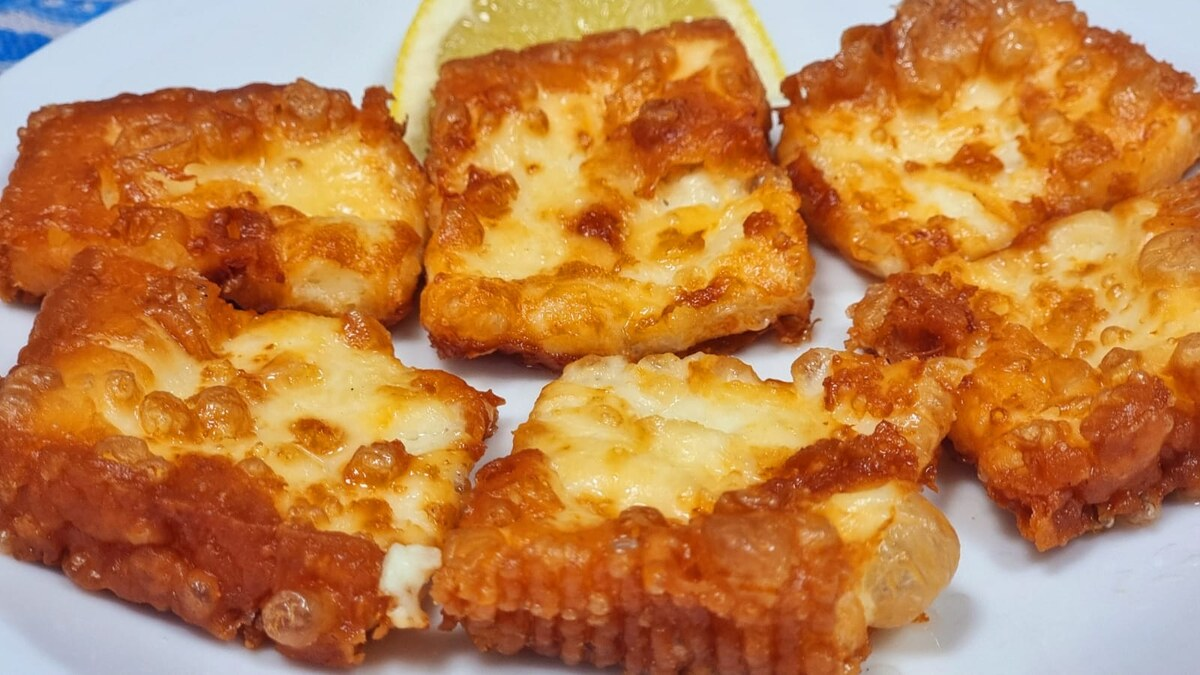
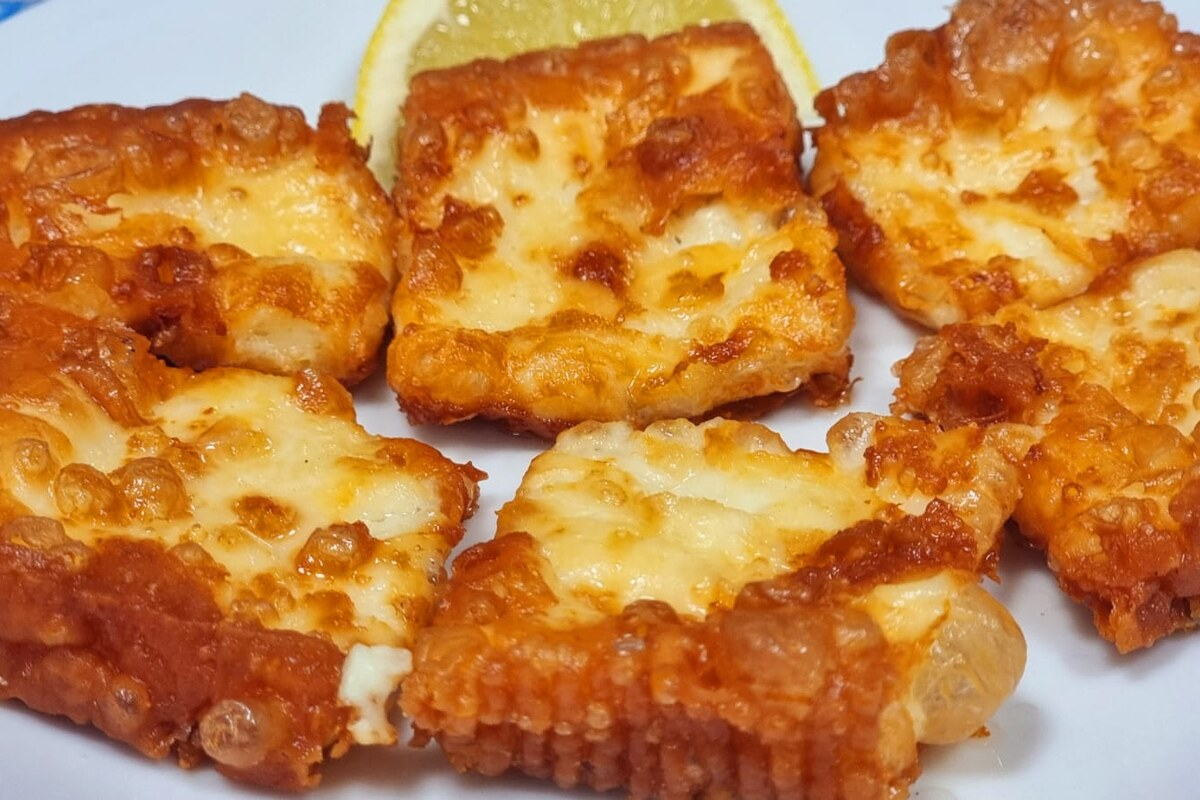
fix(menu): publish six centered ARGO photos

diff --git a/index.html b/index.html
@@ -9,7 +9,7 @@
 <link rel="preconnect" href="https://fonts.googleapis.com">
 <link href="https://fonts.googleapis.com/css2?family=Bebas+Neue&family=Inter:wght@400;500;600;700;800&display=swap" rel="stylesheet">
 <style>
-:root{--n:#0D3B66;--b:#1D70FF;--s:#D9C7A3;--d:#0c0f13;--c:#151b22;--m:#98a6b5}*{box-sizing:border-box}html{scroll-behavior:smooth}body{margin:0;background:var(--d);color:#fff;font-family:Inter,Arial,sans-serif}a{text-decoration:none;color:inherit}.top{background:var(--b);padding:9px 14px;text-align:center;font-size:12px;font-weight:800}.nav{position:sticky;top:0;z-index:40;background:#081d33f5;border-bottom:1px solid #ffffff12}.navin{max-width:1180px;height:66px;margin:auto;padding:0 18px;display:flex;align-items:center;justify-content:space-between}.logo{font-family:'Bebas Neue';font-size:29px;letter-spacing:2px}.logo span{color:var(--s)}.links{display:flex;gap:7px;align-items:center}.links a{font-size:13px;font-weight:800;padding:9px 11px;border-radius:9px}.links .cta{background:var(--s);color:var(--n)}.hero{min-height:68vh;position:relative;display:flex;align-items:center;overflow:hidden}.hero:before{content:'';position:absolute;inset:0;background:url('assets/images/argo-food-gallery.jpg') center/cover no-repeat}.hero:after{content:'';position:absolute;inset:0;background:linear-gradient(110deg,#081d33f2,#08121cb8,#0007)}.heroin{position:relative;z-index:1;max-width:1180px;width:100%;margin:auto;padding:82px 20px}.eyebrow{display:inline-block;border:1px solid #d9c7a355;background:#d9c7a31c;color:var(--s);border-radius:99px;padding:7px 14px;font-size:11px;font-weight:900;letter-spacing:1.5px}.hero h1,.title{font-family:'Bebas Neue';letter-spacing:1px;line-height:.9}.hero h1{font-size:clamp(60px,10vw,116px);margin:21px 0 16px}.hero h1 span,.title span{color:var(--s)}.hero p{font-size:17px;line-height:1.65;max-width:650px;color:#d5e0ea}.btns{display:flex;gap:10px;flex-wrap:wrap;margin-top:26px}.btn{display:inline-flex;justify-content:center;align-items:center;border-radius:10px;padding:14px 18px;font-weight:900}.gold{background:var(--s);color:var(--n)}.ghost{background:#ffffff13;border:1px solid #ffffff35}.status{background:#102943;text-align:center;padding:12px 16px;color:#d7e2ed;font-size:13px}.wrap{max-width:1180px;margin:auto;padding:72px 18px}.tag{font-size:11px;font-weight:900;letter-spacing:2px;text-transform:uppercase;color:var(--b)}.title{font-size:clamp(46px,7vw,78px);margin:11px 0 17px}.sub{color:var(--m);max-width:680px;line-height:1.7}.promo{margin-top:26px;background:linear-gradient(135deg,#173b60,#0d3b66);border:1px solid #d9c7a345;border-radius:17px;padding:21px;display:grid;grid-template-columns:1fr auto;gap:16px;align-items:center}.promo strong{font-size:23px}.promo strong b{color:var(--s)}.pm{color:#c4d0db;font-size:13px;margin-top:7px}.code{background:#fff;color:var(--n);padding:12px 17px;border-radius:10px;font-weight:900;letter-spacing:1px}.week{display:grid;grid-template-columns:repeat(7,1fr);gap:8px;margin-top:13px}.day{background:#121b25;border:1px solid #ffffff10;border-radius:11px;padding:10px;min-height:82px}.day.today{border-color:var(--s)}.day.off{opacity:.45}.dn{font-size:10px;font-weight:900;color:#93a4b5}.do{font-size:12px;font-weight:800;margin-top:7px;line-height:1.35}.choice{background:var(--n)}.grid3{display:grid;grid-template-columns:repeat(3,1fr);gap:15px;margin-top:31px}.choiceCard{background:#ffffff0d;border:1px solid #ffffff17;border-radius:17px;padding:25px}.choiceCard.pickup{background:#d9c7a312;border-color:#d9c7a35c}.choiceCard .icon{font-size:42px}.badge{display:inline-block;margin:12px 0 3px;background:#ffffff12;color:var(--s);font-size:10px;font-weight:900;border-radius:99px;padding:5px 8px}.choiceCard h3{font-family:'Bebas Neue';font-size:31px;margin:10px 0 6px}.choiceCard p{color:#b8c5d1;font-size:14px;line-height:1.6;min-height:68px}.choiceBtn{display:block;text-align:center;background:#fff;color:var(--n);padding:13px;border-radius:10px;font-weight:900;margin-top:16px}.pickup .choiceBtn{background:var(--s)}.photos{display:grid;grid-template-columns:1.35fr 1fr;gap:14px;margin-top:28px}.ph{height:340px;background-position:center;background-size:cover;border-radius:17px;position:relative;overflow:hidden}.ph:after{content:'';position:absolute;inset:0;background:linear-gradient(to top,#0009,transparent 60%)}.ph span{position:absolute;z-index:2;bottom:17px;left:17px;font-family:'Bebas Neue';font-size:28px}.filters{display:flex;gap:8px;overflow:auto;padding:5px 0 18px}.chip{white-space:nowrap;border:1px solid #ffffff1f;background:transparent;color:#b9c6d3;border-radius:99px;padding:8px 12px;font-weight:800;cursor:pointer}.chip.on{background:var(--s);color:var(--n);border-color:var(--s)}.menu{display:grid;grid-template-columns:repeat(auto-fill,minmax(235px,1fr));gap:13px}.item{background:var(--c);border:1px solid #ffffff10;border-radius:14px;overflow:hidden;display:flex;flex-direction:column}.pic{height:165px;position:relative;overflow:hidden;background:linear-gradient(135deg,#14283b,#111820)}.pic img{display:none!important}.pic .fallback{display:grid!important}.fallback{position:absolute;inset:0;display:grid;place-items:center;font-size:43px}.ib{padding:14px;display:flex;flex-direction:column;flex:1}.ib h3{margin:0 0 7px;font-size:15px}.ib p{margin:0;color:#8797a7;font-size:12px;line-height:1.5;min-height:38px}.if{display:flex;justify-content:space-between;align-items:center;gap:8px;margin-top:auto;padding-top:14px}.price{font-family:'Bebas Neue';font-size:24px;color:var(--s)}.mini{border:1px solid #1d70ff55;background:#1d70ff1d;color:#63a7ff;border-radius:8px;padding:8px 9px;font-size:10px;font-weight:900;cursor:pointer}.info{display:grid;grid-template-columns:repeat(3,1fr);gap:13px}.ic{background:#141a21;border:1px solid #ffffff10;border-radius:14px;padding:20px}.ic h3{color:var(--s);margin-top:0}footer{background:#090b0e;border-top:1px solid #ffffff10;padding:32px 18px}.foot{max-width:1180px;margin:auto;display:flex;justify-content:space-between;gap:15px;flex-wrap:wrap;color:#8493a2;font-size:12px}@media(max-width:800px){.links a:not(.cta){display:none}.grid3,.info{grid-template-columns:1fr}.promo{grid-template-columns:1fr}.week{grid-template-columns:repeat(2,1fr)}.photos{grid-template-columns:1fr}.ph{height:270px}.choiceCard p{min-height:0}}@media(max-width:520px){.menu{grid-template-columns:1fr}.pic{height:220px}.hero h1{font-size:64px}.hero p{font-size:15px}.wrap{padding:56px 15px}}
+:root{--n:#0D3B66;--b:#1D70FF;--s:#D9C7A3;--d:#0c0f13;--c:#151b22;--m:#98a6b5}*{box-sizing:border-box}html{scroll-behavior:smooth}body{margin:0;background:var(--d);color:#fff;font-family:Inter,Arial,sans-serif}a{text-decoration:none;color:inherit}.top{background:var(--b);padding:9px 14px;text-align:center;font-size:12px;font-weight:800}.nav{position:sticky;top:0;z-index:40;background:#081d33f5;border-bottom:1px solid #ffffff12}.navin{max-width:1180px;height:66px;margin:auto;padding:0 18px;display:flex;align-items:center;justify-content:space-between}.logo{font-family:'Bebas Neue';font-size:29px;letter-spacing:2px}.logo span{color:var(--s)}.links{display:flex;gap:7px;align-items:center}.links a{font-size:13px;font-weight:800;padding:9px 11px;border-radius:9px}.links .cta{background:var(--s);color:var(--n)}.hero{min-height:68vh;position:relative;display:flex;align-items:center;overflow:hidden}.hero:before{content:'';position:absolute;inset:0;background:url('assets/images/argo-food-gallery.jpg') center/cover no-repeat}.hero:after{content:'';position:absolute;inset:0;background:linear-gradient(110deg,#081d33f2,#08121cb8,#0007)}.heroin{position:relative;z-index:1;max-width:1180px;width:100%;margin:auto;padding:82px 20px}.eyebrow{display:inline-block;border:1px solid #d9c7a355;background:#d9c7a31c;color:var(--s);border-radius:99px;padding:7px 14px;font-size:11px;font-weight:900;letter-spacing:1.5px}.hero h1,.title{font-family:'Bebas Neue';letter-spacing:1px;line-height:.9}.hero h1{font-size:clamp(60px,10vw,116px);margin:21px 0 16px}.hero h1 span,.title span{color:var(--s)}.hero p{font-size:17px;line-height:1.65;max-width:650px;color:#d5e0ea}.btns{display:flex;gap:10px;flex-wrap:wrap;margin-top:26px}.btn{display:inline-flex;justify-content:center;align-items:center;border-radius:10px;padding:14px 18px;font-weight:900}.gold{background:var(--s);color:var(--n)}.ghost{background:#ffffff13;border:1px solid #ffffff35}.status{background:#102943;text-align:center;padding:12px 16px;color:#d7e2ed;font-size:13px}.wrap{max-width:1180px;margin:auto;padding:72px 18px}.tag{font-size:11px;font-weight:900;letter-spacing:2px;text-transform:uppercase;color:var(--b)}.title{font-size:clamp(46px,7vw,78px);margin:11px 0 17px}.sub{color:var(--m);max-width:680px;line-height:1.7}.promo{margin-top:26px;background:linear-gradient(135deg,#173b60,#0d3b66);border:1px solid #d9c7a345;border-radius:17px;padding:21px;display:grid;grid-template-columns:1fr auto;gap:16px;align-items:center}.promo strong{font-size:23px}.promo strong b{color:var(--s)}.pm{color:#c4d0db;font-size:13px;margin-top:7px}.code{background:#fff;color:var(--n);padding:12px 17px;border-radius:10px;font-weight:900;letter-spacing:1px}.week{display:grid;grid-template-columns:repeat(7,1fr);gap:8px;margin-top:13px}.day{background:#121b25;border:1px solid #ffffff10;border-radius:11px;padding:10px;min-height:82px}.day.today{border-color:var(--s)}.day.off{opacity:.45}.dn{font-size:10px;font-weight:900;color:#93a4b5}.do{font-size:12px;font-weight:800;margin-top:7px;line-height:1.35}.choice{background:var(--n)}.grid3{display:grid;grid-template-columns:repeat(3,1fr);gap:15px;margin-top:31px}.choiceCard{background:#ffffff0d;border:1px solid #ffffff17;border-radius:17px;padding:25px}.choiceCard.pickup{background:#d9c7a312;border-color:#d9c7a35c}.choiceCard .icon{font-size:42px}.badge{display:inline-block;margin:12px 0 3px;background:#ffffff12;color:var(--s);font-size:10px;font-weight:900;border-radius:99px;padding:5px 8px}.choiceCard h3{font-family:'Bebas Neue';font-size:31px;margin:10px 0 6px}.choiceCard p{color:#b8c5d1;font-size:14px;line-height:1.6;min-height:68px}.choiceBtn{display:block;text-align:center;background:#fff;color:var(--n);padding:13px;border-radius:10px;font-weight:900;margin-top:16px}.pickup .choiceBtn{background:var(--s)}.photos{display:grid;grid-template-columns:1.35fr 1fr;gap:14px;margin-top:28px}.ph{height:340px;background-position:center;background-size:cover;border-radius:17px;position:relative;overflow:hidden}.ph:after{content:'';position:absolute;inset:0;background:linear-gradient(to top,#0009,transparent 60%)}.ph span{position:absolute;z-index:2;bottom:17px;left:17px;font-family:'Bebas Neue';font-size:28px}.filters{display:flex;gap:8px;overflow:auto;padding:5px 0 18px}.chip{white-space:nowrap;border:1px solid #ffffff1f;background:transparent;color:#b9c6d3;border-radius:99px;padding:8px 12px;font-weight:800;cursor:pointer}.chip.on{background:var(--s);color:var(--n);border-color:var(--s)}.menu{display:grid;grid-template-columns:repeat(auto-fill,minmax(235px,1fr));gap:13px}.item{background:var(--c);border:1px solid #ffffff10;border-radius:14px;overflow:hidden;display:flex;flex-direction:column}.pic{aspect-ratio:3/2;position:relative;overflow:hidden;background:linear-gradient(135deg,#14283b,#111820)}.pic img{width:100%;height:100%;display:block;object-fit:cover;object-position:center}.pic .fallback{display:grid}.fallback{position:absolute;inset:0;display:grid;place-items:center;font-size:43px}.ib{padding:14px;display:flex;flex-direction:column;flex:1}.ib h3{margin:0 0 7px;font-size:15px}.ib p{margin:0;color:#8797a7;font-size:12px;line-height:1.5;min-height:38px}.if{display:flex;justify-content:space-between;align-items:center;gap:8px;margin-top:auto;padding-top:14px}.price{font-family:'Bebas Neue';font-size:24px;color:var(--s)}.mini{border:1px solid #1d70ff55;background:#1d70ff1d;color:#63a7ff;border-radius:8px;padding:8px 9px;font-size:10px;font-weight:900;cursor:pointer}.info{display:grid;grid-template-columns:repeat(3,1fr);gap:13px}.ic{background:#141a21;border:1px solid #ffffff10;border-radius:14px;padding:20px}.ic h3{color:var(--s);margin-top:0}footer{background:#090b0e;border-top:1px solid #ffffff10;padding:32px 18px}.foot{max-width:1180px;margin:auto;display:flex;justify-content:space-between;gap:15px;flex-wrap:wrap;color:#8493a2;font-size:12px}@media(max-width:800px){.links a:not(.cta){display:none}.grid3,.info{grid-template-columns:1fr}.promo{grid-template-columns:1fr}.week{grid-template-columns:repeat(2,1fr)}.photos{grid-template-columns:1fr}.ph{height:270px}.choiceCard p{min-height:0}}@media(max-width:520px){.menu{grid-template-columns:1fr}.hero h1{font-size:64px}.hero p{font-size:15px}.wrap{padding:56px 15px}}
 </style>
 </head>
 <body>

diff --git a/ordina/index.html b/ordina/index.html
@@ -7,7 +7,7 @@
 <meta name="theme-color" content="#0D3B66">
 <link rel="preconnect" href="https://zibubwrntdmdxyimqddo.supabase.co" crossorigin>
 <style>
-*{box-sizing:border-box}body{margin:0;font-family:Arial,sans-serif;background:#0b1724;color:#fff}.wrap{max-width:900px;margin:auto;padding:18px}.top{display:flex;justify-content:space-between;align-items:center}.logo{font-size:28px;font-weight:900}.logo b{color:#d9c7a3}.back{color:#d9c7a3;text-decoration:none}.hero{padding:30px 0 18px}h1{font-size:42px;margin:0 0 8px}.muted{color:#aab5c2}.pickup{background:#15324a;border:1px solid #34516b;border-radius:12px;padding:12px 14px;margin-top:14px;color:#dbeafe}.dailyPromo{display:none;margin:14px 0 18px;background:linear-gradient(135deg,#7c4a00,#b46b00);border:1px solid #eab968;border-radius:14px;padding:15px 16px;box-shadow:0 8px 24px #0004}.dailyPromo.on{display:block}.dailyPromo .tag{font-size:10px;font-weight:900;letter-spacing:1.2px;color:#ffe8b5}.dailyPromo .main{font-size:19px;font-weight:900;margin-top:5px}.dailyPromo .meta{font-size:12px;color:#fff0cc;margin-top:5px;line-height:1.45}.promoUse{margin-top:10px;display:flex;gap:8px;align-items:center;flex-wrap:wrap}.promoUse code{background:#fff;color:#603800;padding:7px 10px;border-radius:8px;font-weight:900;font-size:14px}.promoUse button{border:0;border-radius:8px;background:#0d3b66;color:#fff;font-weight:900;padding:8px 11px;cursor:pointer}.promoProgress{margin-top:8px;font-size:12px;font-weight:800;color:#fff4d6}.cats{display:flex;gap:7px;overflow:auto;padding:8px 0 16px}.chip{white-space:nowrap;border:1px solid #34485d;background:#14283b;color:#fff;border-radius:20px;padding:8px 13px}.chip.on{background:#d9c7a3;color:#0d3b66}.grid{display:grid;grid-template-columns:repeat(auto-fill,minmax(240px,1fr));gap:12px}.item{background:#122638;border:1px solid #263c50;border-radius:14px;overflow:hidden;display:flex;flex-direction:column}.itemMedia{width:100%;height:175px;position:relative;overflow:hidden;background:linear-gradient(135deg,#18354d,#0f2030);display:grid;place-items:center}.itemFallback{font-size:42px;line-height:1}.itemPhoto{display:none!important}.itemBody{padding:14px;display:flex;flex-direction:column;flex:1}.item h3{margin:0 0 6px}.desc{font-size:12px;color:#9cabb9;min-height:30px}.foot{display:flex;justify-content:space-between;align-items:center;margin-top:auto;padding-top:12px}.price{font-weight:900;color:#d9c7a3}.add{border:0;border-radius:9px;background:#1d70ff;color:white;padding:9px 13px;font-weight:800}.cart{position:sticky;bottom:10px;margin-top:18px;background:#fff;color:#132238;border-radius:16px;padding:14px;box-shadow:0 8px 30px #0008}.carthead{display:flex;justify-content:space-between;align-items:center}.cartlines{font-size:13px;margin:8px 0;max-height:220px;overflow:auto}.line{display:flex;justify-content:space-between;gap:10px;padding:8px 0;border-bottom:1px solid #eee}.lineMods{font-size:11px;color:#5f6f80;margin-top:3px;white-space:pre-line}.removeLine{border:0;background:#eee;border-radius:6px;padding:2px 7px}.totals{border-top:1px solid #e5e7eb;padding-top:8px;margin-top:8px}.sumrow{display:flex;justify-content:space-between;padding:3px 0}.discount{color:#15803d;font-weight:800}.promoBox{display:flex;gap:7px;margin-top:10px}.promoBox input{margin:0;flex:1;text-transform:uppercase}.promoBtn{border:0;border-radius:9px;background:#d9c7a3;color:#0d3b66;font-weight:900;padding:0 14px}.promoMsg{font-size:12px;margin-top:6px;min-height:16px}.promoOk{color:#15803d}.promoBad{color:#b91c1c}.checkout{width:100%;border:0;border-radius:10px;background:#0d3b66;color:#fff;padding:13px;font-size:16px;font-weight:900;margin-top:10px}.modal{display:none;position:fixed;inset:0;background:#000b;z-index:20;padding:18px;overflow:auto}.modal.on{display:block}.box{max-width:520px;margin:30px auto;background:#fff;color:#132238;border-radius:18px;padding:22px}.modbox{max-width:560px}.group{margin:16px 0;padding:14px;border:1px solid #dce3e9;border-radius:12px}.group h3{margin:0 0 10px}.opt{display:flex;align-items:center;justify-content:space-between;gap:12px;padding:8px 0;border-bottom:1px solid #eef2f5}.opt:last-child{border-bottom:0}.opt label{display:flex;align-items:center;gap:8px;flex:1}.opt input{width:auto;margin:0}.optPrice{font-weight:800;color:#0d3b66}.modActions{display:flex;gap:8px;margin-top:14px}.secondary{background:#e8edf2;color:#132238}.close{float:right;border:0;background:none;font-size:22px}input,textarea{width:100%;padding:12px;margin:6px 0 11px;border:1px solid #ccd4dc;border-radius:9px;font-size:16px}.fixedChoice{padding:12px;border:1px solid #d7dee5;border-radius:9px;background:#f4f7fa;font-weight:800;margin:6px 0 11px}.timeHint{font-size:12px;color:#64748b;margin-top:-5px;margin-bottom:10px}.ok{background:#e9fff0;border:1px solid #b7e8c4;padding:16px;border-radius:12px}@media(max-width:600px){h1{font-size:34px}.grid{grid-template-columns:1fr}.wrap{padding:14px}.box{margin:8px auto}.itemMedia{height:210px}}
+*{box-sizing:border-box}body{margin:0;font-family:Arial,sans-serif;background:#0b1724;color:#fff}.wrap{max-width:900px;margin:auto;padding:18px}.top{display:flex;justify-content:space-between;align-items:center}.logo{font-size:28px;font-weight:900}.logo b{color:#d9c7a3}.back{color:#d9c7a3;text-decoration:none}.hero{padding:30px 0 18px}h1{font-size:42px;margin:0 0 8px}.muted{color:#aab5c2}.pickup{background:#15324a;border:1px solid #34516b;border-radius:12px;padding:12px 14px;margin-top:14px;color:#dbeafe}.dailyPromo{display:none;margin:14px 0 18px;background:linear-gradient(135deg,#7c4a00,#b46b00);border:1px solid #eab968;border-radius:14px;padding:15px 16px;box-shadow:0 8px 24px #0004}.dailyPromo.on{display:block}.dailyPromo .tag{font-size:10px;font-weight:900;letter-spacing:1.2px;color:#ffe8b5}.dailyPromo .main{font-size:19px;font-weight:900;margin-top:5px}.dailyPromo .meta{font-size:12px;color:#fff0cc;margin-top:5px;line-height:1.45}.promoUse{margin-top:10px;display:flex;gap:8px;align-items:center;flex-wrap:wrap}.promoUse code{background:#fff;color:#603800;padding:7px 10px;border-radius:8px;font-weight:900;font-size:14px}.promoUse button{border:0;border-radius:8px;background:#0d3b66;color:#fff;font-weight:900;padding:8px 11px;cursor:pointer}.promoProgress{margin-top:8px;font-size:12px;font-weight:800;color:#fff4d6}.cats{display:flex;gap:7px;overflow:auto;padding:8px 0 16px}.chip{white-space:nowrap;border:1px solid #34485d;background:#14283b;color:#fff;border-radius:20px;padding:8px 13px}.chip.on{background:#d9c7a3;color:#0d3b66}.grid{display:grid;grid-template-columns:repeat(auto-fill,minmax(240px,1fr));gap:12px}.item{background:#122638;border:1px solid #263c50;border-radius:14px;overflow:hidden;display:flex;flex-direction:column}.itemMedia{width:100%;aspect-ratio:3/2;position:relative;overflow:hidden;background:linear-gradient(135deg,#18354d,#0f2030);display:grid;place-items:center}.itemFallback{font-size:42px;line-height:1}.itemPhoto{position:absolute;inset:0;width:100%;height:100%;object-fit:cover;object-position:center;background:#0f2030;display:block}.itemBody{padding:14px;display:flex;flex-direction:column;flex:1}.item h3{margin:0 0 6px}.desc{font-size:12px;color:#9cabb9;min-height:30px}.foot{display:flex;justify-content:space-between;align-items:center;margin-top:auto;padding-top:12px}.price{font-weight:900;color:#d9c7a3}.add{border:0;border-radius:9px;background:#1d70ff;color:white;padding:9px 13px;font-weight:800}.cart{position:sticky;bottom:10px;margin-top:18px;background:#fff;color:#132238;border-radius:16px;padding:14px;box-shadow:0 8px 30px #0008}.carthead{display:flex;justify-content:space-between;align-items:center}.cartlines{font-size:13px;margin:8px 0;max-height:220px;overflow:auto}.line{display:flex;justify-content:space-between;gap:10px;padding:8px 0;border-bottom:1px solid #eee}.lineMods{font-size:11px;color:#5f6f80;margin-top:3px;white-space:pre-line}.removeLine{border:0;background:#eee;border-radius:6px;padding:2px 7px}.totals{border-top:1px solid #e5e7eb;padding-top:8px;margin-top:8px}.sumrow{display:flex;justify-content:space-between;padding:3px 0}.discount{color:#15803d;font-weight:800}.promoBox{display:flex;gap:7px;margin-top:10px}.promoBox input{margin:0;flex:1;text-transform:uppercase}.promoBtn{border:0;border-radius:9px;background:#d9c7a3;color:#0d3b66;font-weight:900;padding:0 14px}.promoMsg{font-size:12px;margin-top:6px;min-height:16px}.promoOk{color:#15803d}.promoBad{color:#b91c1c}.checkout{width:100%;border:0;border-radius:10px;background:#0d3b66;color:#fff;padding:13px;font-size:16px;font-weight:900;margin-top:10px}.modal{display:none;position:fixed;inset:0;background:#000b;z-index:20;padding:18px;overflow:auto}.modal.on{display:block}.box{max-width:520px;margin:30px auto;background:#fff;color:#132238;border-radius:18px;padding:22px}.modbox{max-width:560px}.group{margin:16px 0;padding:14px;border:1px solid #dce3e9;border-radius:12px}.group h3{margin:0 0 10px}.opt{display:flex;align-items:center;justify-content:space-between;gap:12px;padding:8px 0;border-bottom:1px solid #eef2f5}.opt:last-child{border-bottom:0}.opt label{display:flex;align-items:center;gap:8px;flex:1}.opt input{width:auto;margin:0}.optPrice{font-weight:800;color:#0d3b66}.modActions{display:flex;gap:8px;margin-top:14px}.secondary{background:#e8edf2;color:#132238}.close{float:right;border:0;background:none;font-size:22px}input,textarea{width:100%;padding:12px;margin:6px 0 11px;border:1px solid #ccd4dc;border-radius:9px;font-size:16px}.fixedChoice{padding:12px;border:1px solid #d7dee5;border-radius:9px;background:#f4f7fa;font-weight:800;margin:6px 0 11px}.timeHint{font-size:12px;color:#64748b;margin-top:-5px;margin-bottom:10px}.ok{background:#e9fff0;border:1px solid #b7e8c4;padding:16px;border-radius:12px}@media(max-width:600px){h1{font-size:34px}.grid{grid-template-columns:1fr}.wrap{padding:14px}.box{margin:8px auto}}
 </style>
 </head>
 <body>
